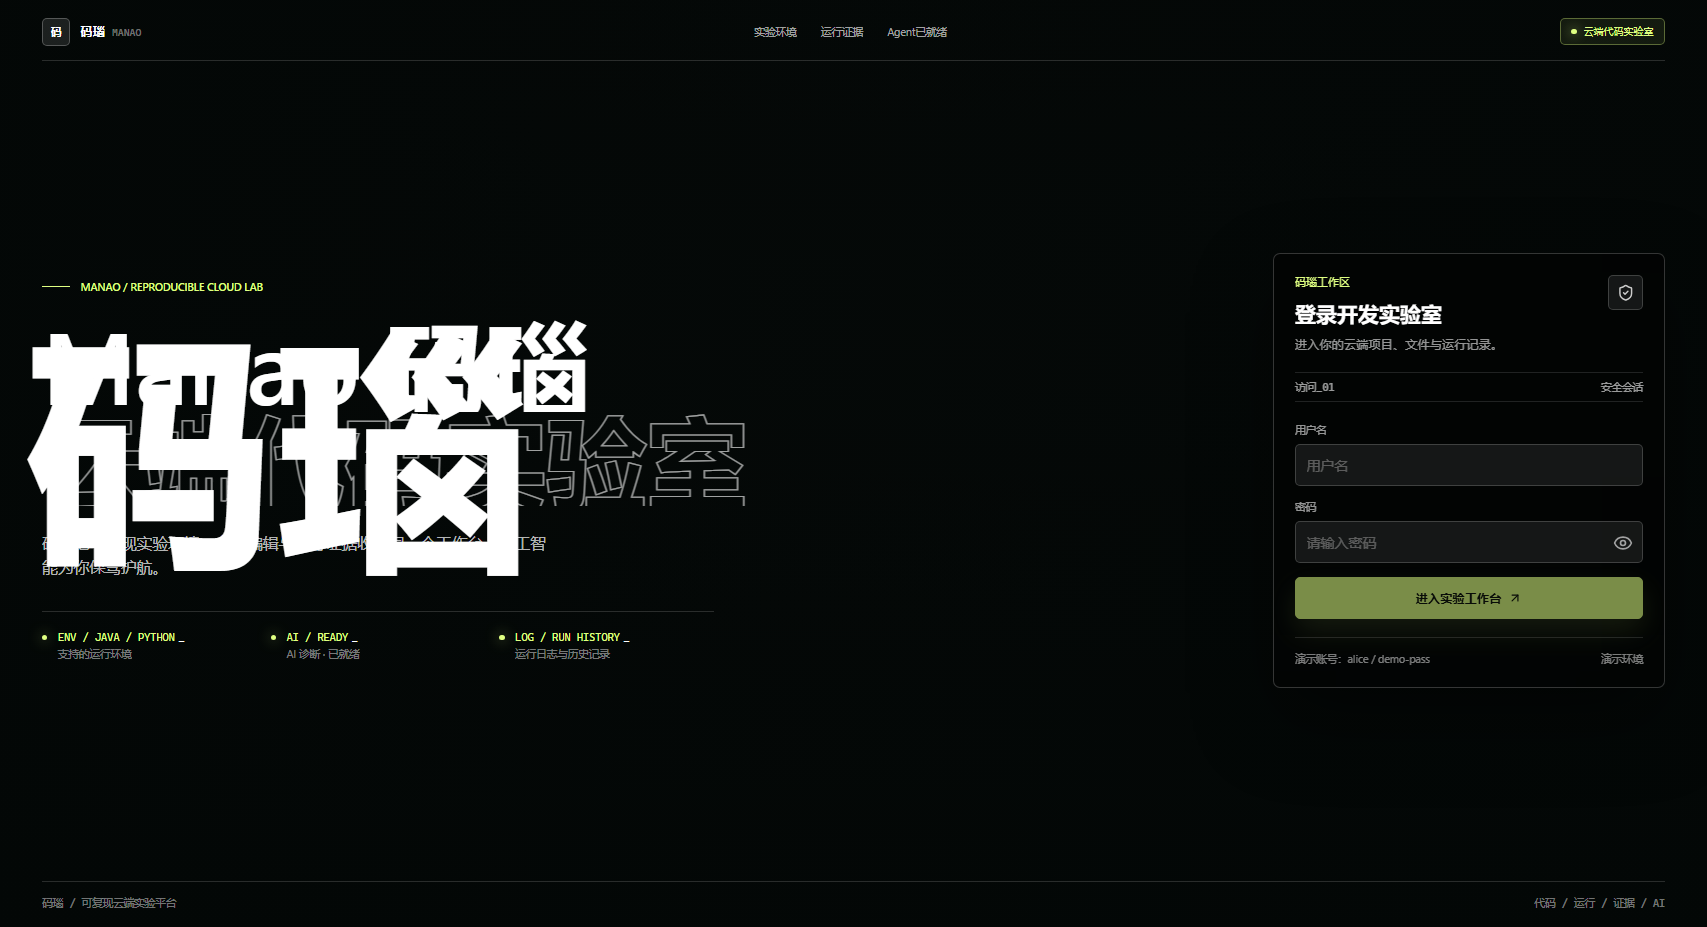
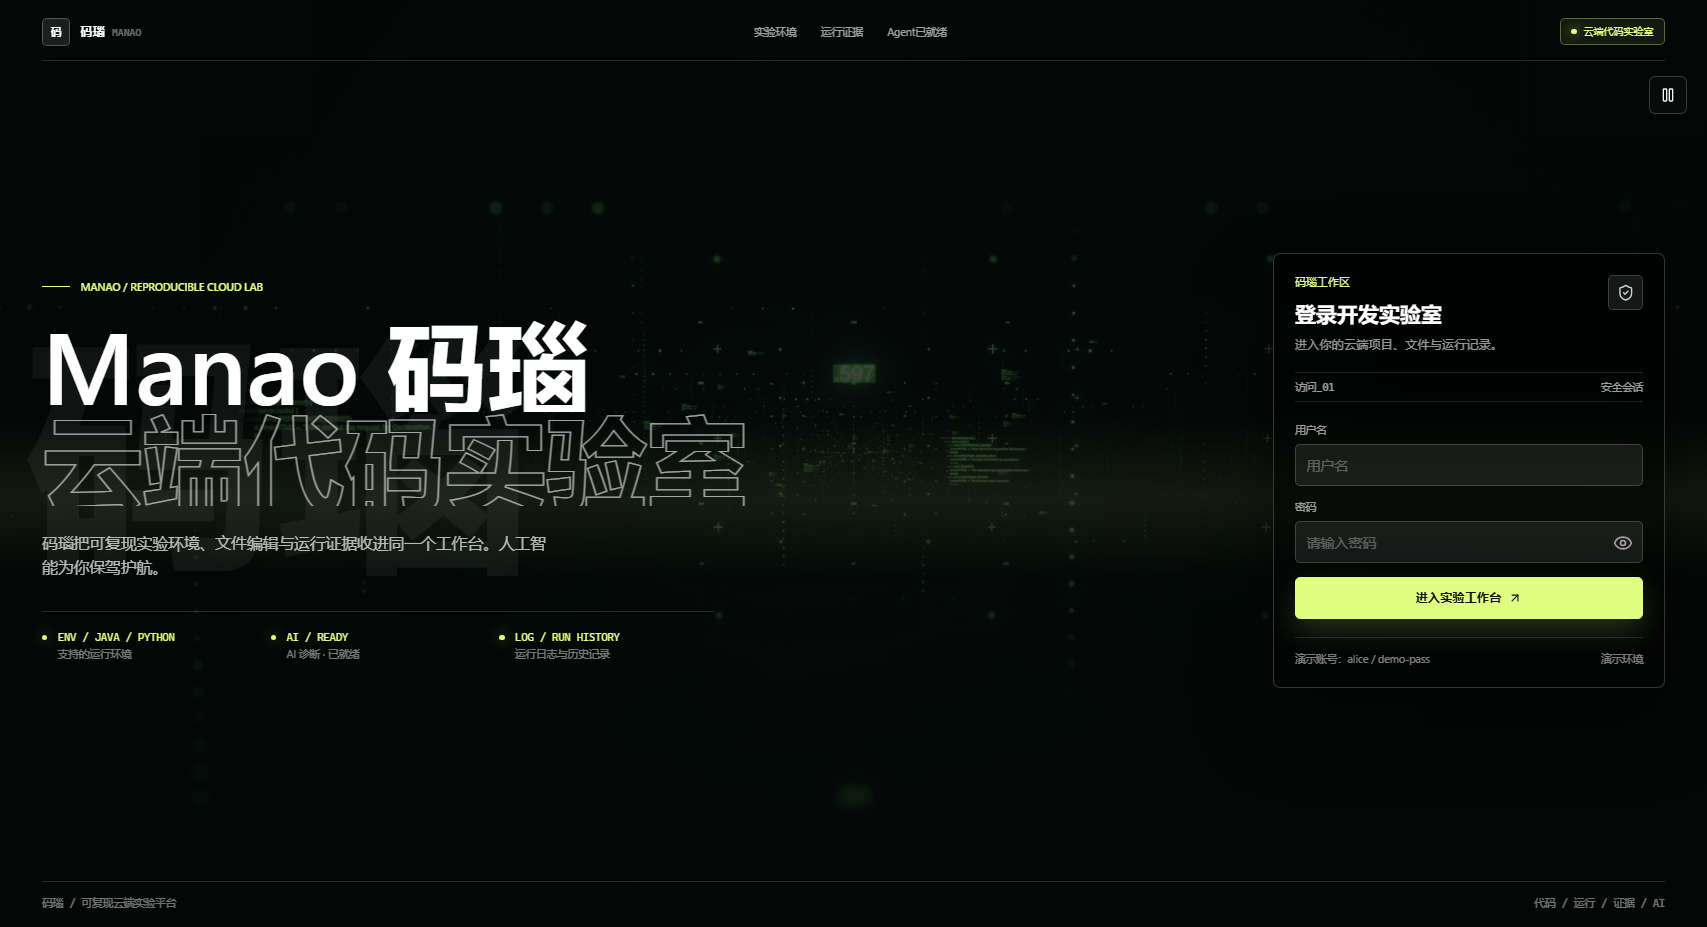
docs(frontend): finalize AI copy verification

diff --git a/poc4/frontend/README.md b/poc4/frontend/README.md
@@ -177,8 +177,10 @@ git diff --check
 
 按用户对已发布页面的标注，登录页将导航状态改为 `Agent已就绪`，运行能力项改为 `AI / READY · AI 诊断 · 已就绪`，主说明改为“人工智能为你保驾护航”，并将输入 placeholder 改为“用户名”和“请输入密码”。mock-only 演示账号提示及测试登录值仍保留，未改变认证行为。非 AI 页面右侧 Run Insights 移除“AI 诊断 · 预览 · 未接入”占位卡，运行、日志、服务访问和项目洞察入口继续保留。
 
-本轮针对性 Vitest 为 3 files / 98 tests passed，`pnpm typecheck:stage6` passed，生产 `pnpm build` passed（仅保留既有 chunk size warnings）。mock 浏览器 smoke 覆盖 lab/graphite/light、宽屏和 390px 窄屏登录内容、工作台洞察移除和 AI 草稿跨 File 切换保留；证明范围限于本地 fixture，不代表真实模型或云端验收。截图与 JSON 记录保存在 `../docs/evidence/ai-ui/copy-20261021/`。
+本轮 `pnpm exec vitest run src/features/auth/LoginPage.test.tsx src/components/runs/RunEvidence.test.tsx src/components/shell/WorkbenchShell.test.tsx --maxWorkers=4` 为 3 files / 98 tests passed，`pnpm typecheck:stage6` exit0，`pnpm exec playwright test --config playwright.ai-ui.config.ts` 10/10 passed（1.8m）。另以 stdin Playwright annotation smoke 直接核对六处标注，lab1707×927、graphite/light1440×900、lab390×844 共4/4通过：登录文案和空 placeholder、洞察占位卡移除、AI 草稿跨 File 切换保留。窄屏沿用原 CSS 隐藏顶部导航和能力条，仅核对其 DOM 文案；未改可见性规则。截图与 JSON 记录保存在 `../docs/evidence/ai-ui/copy-20261021/`，本轮专项截图使用 `*-login.png` 和 `*-workbench.png`；旧 screenshots 目录保留原历史证据。
+
+Playwright mock build 覆盖本地 dist 后，第一次 `pnpm test:boundary` 的36项单测通过而产物扫描失败（检出 mock 标记）；按要求重新生产 `pnpm build` exit0（Vite58.23s，仅有既有 chunk size warnings），再次 `pnpm test:boundary` 36/36且 Browser boundary check passed，`git diff --check` exit0。初次 RunEvidence 测试1项失败为旧断言仍期待已移除的占位卡，改为断言不存在后98/98；自定义 smoke 的早期失败来自无条件切换洞察、使用 mock 标题匹配真实会话、窄屏隐藏元素可见性断言及未剥除 env 外层引号，均仅修正验证脚本，未改产品代码来掩盖失败。全量 Vitest 和真实模型套件本轮未执行；以上本地 fixture 不建立模型或工程阶段验收结论。
 
 用户随后授权更新集群。源码提交 `9e0c831ebda0762b10ef21a2b6721a2bbb692366` 的 frontend 镜像已 BUILT / PUSHED / DEPLOYED：tag `chocologic/manao_images_repository:ai-copy-frontend-9e0c831`，OCI index `sha256:297a81e47cc421223b552562acee5d99920aeda20bc5b5190dadbd1991059698`，linux/amd64 child `sha256:d45066a454f728fa781a3a203329f2319f55e02c2c9b45aebb1c09e5e52d9a54`，USER101。实际镜像扫描无 fixture/MSW 标记，`mockServiceWorker.js` 不存在。
 
[2 lines of base64/hex data omitted]

diff --git a/poc4/deploy/ai-context/README.md b/poc4/deploy/ai-context/README.md
@@ -178,4 +178,4 @@ kubectl --kubeconfig D:/DeepLearning/MyProjects/Project_Manao_kubeconfig/stage6b
 
 回滚目标为本轮发布前实际 frontend OCI index `sha256:a45d8c0ad6abf7e138b31a3ac43e79937fc33cddac109e943ea15e2789b5fca2`。发布后重新核对 frontend Ready1/1、imageID、generation、restart，以及 backend/worker generation、Pod UID、digest、restart 未改变；不执行真实模型请求、数据库迁移或资源清理。
 
[2 lines of base64/hex data omitted]
